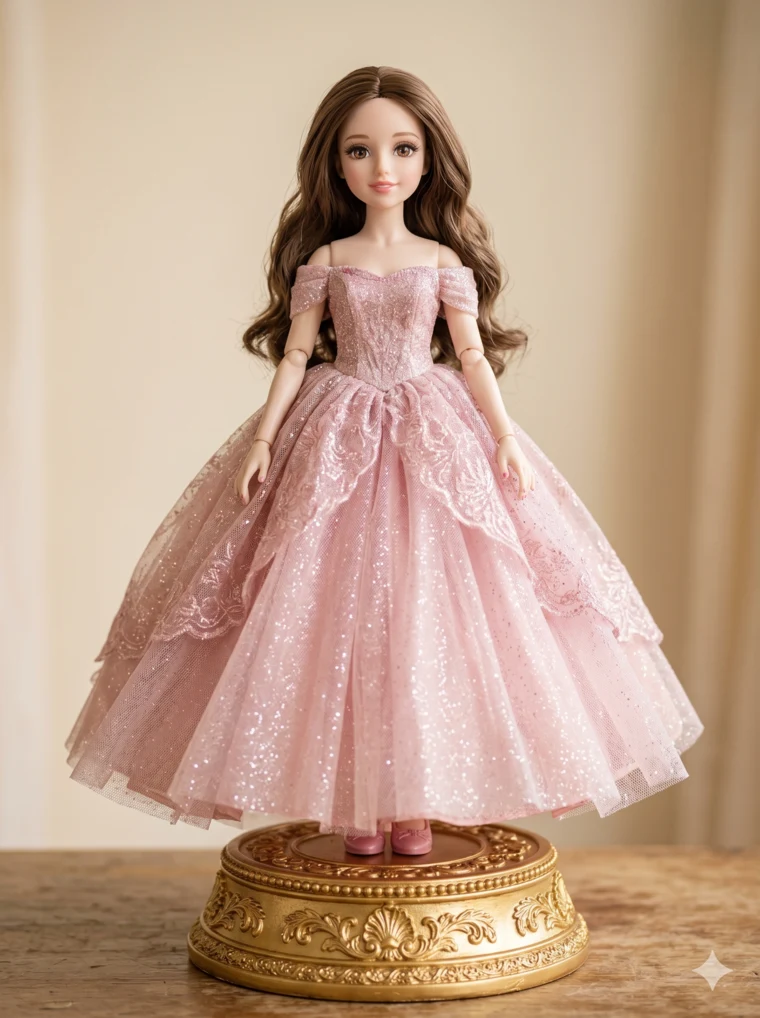
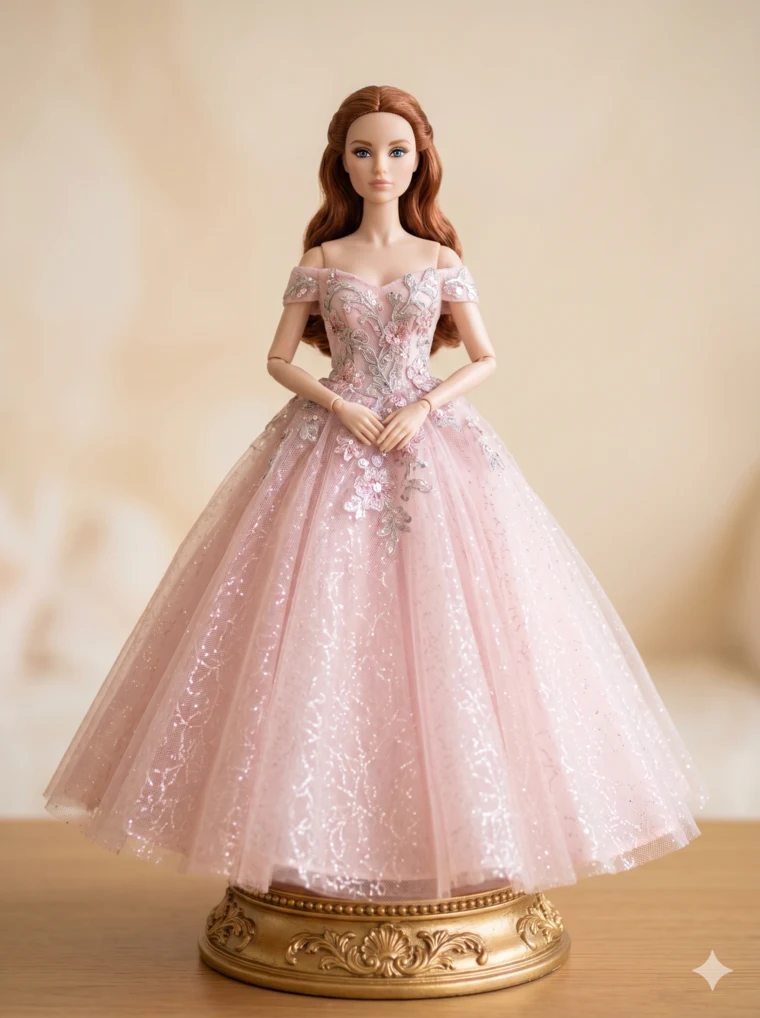
fix(royal): 정렬 개선 — 정면·대칭 베이스 + 정밀 앵커로 악세서리 합치 향상
"좌표가 안 맞는다" 피드백 해결. 원인은 베이스 공주가 3/4 각도+머리카락 비대칭이라
정면 평면 악세서리가 안 맞던 것. 베이스를 완전 정면·좌우대칭·머리 뒤로·맨 목선으로
재생성(제미나이 웹) 후, 10% 격자로 앵커(머리 꼭대기 y~9%·목선 y~24%·중심 x=50%)를
정밀 측정해 좌표 재설정 → 티아라가 머리에 자연스럽게 얹히고 목걸이도 맨 가슴에 보임.

- public/img/royal/base-rose.webp 교체(정면 대칭 베이스)
- royal.ts POS 정밀화(crown y7/w27, hair y9/w31, necklace y22/w16)

diff --git a/src/reward/royal.ts b/src/reward/royal.ts
@@ -34,10 +34,11 @@ export const ROYAL_CATEGORIES: { key: RoyalCategory; label: string; emoji: strin
 ]
 
 // 부위별 기본 좌표(아이템마다 미세 조정 가능). 3:4 인형 미리보기 기준(라이브에서 튜닝).
+// 정면·대칭 베이스(base-rose) 기준 정밀 앵커(머리 꼭대기 y~9%, 목선 y~24%, 중심 x=50%).
 const POS: Record<RoyalCategory, { xPct: number; yPct: number; wPct: number }> = {
-  crown: { xPct: 50, yPct: 3, wPct: 27 },
-  hair: { xPct: 50, yPct: 5, wPct: 33 },
-  necklace: { xPct: 50, yPct: 30, wPct: 23 },
+  crown: { xPct: 50, yPct: 7, wPct: 27 },
+  hair: { xPct: 50, yPct: 9, wPct: 31 },
+  necklace: { xPct: 50, yPct: 22, wPct: 16 },
   shoes: { xPct: 50, yPct: 90, wPct: 30 },
   hand: { xPct: 72, yPct: 40, wPct: 15 },
 }